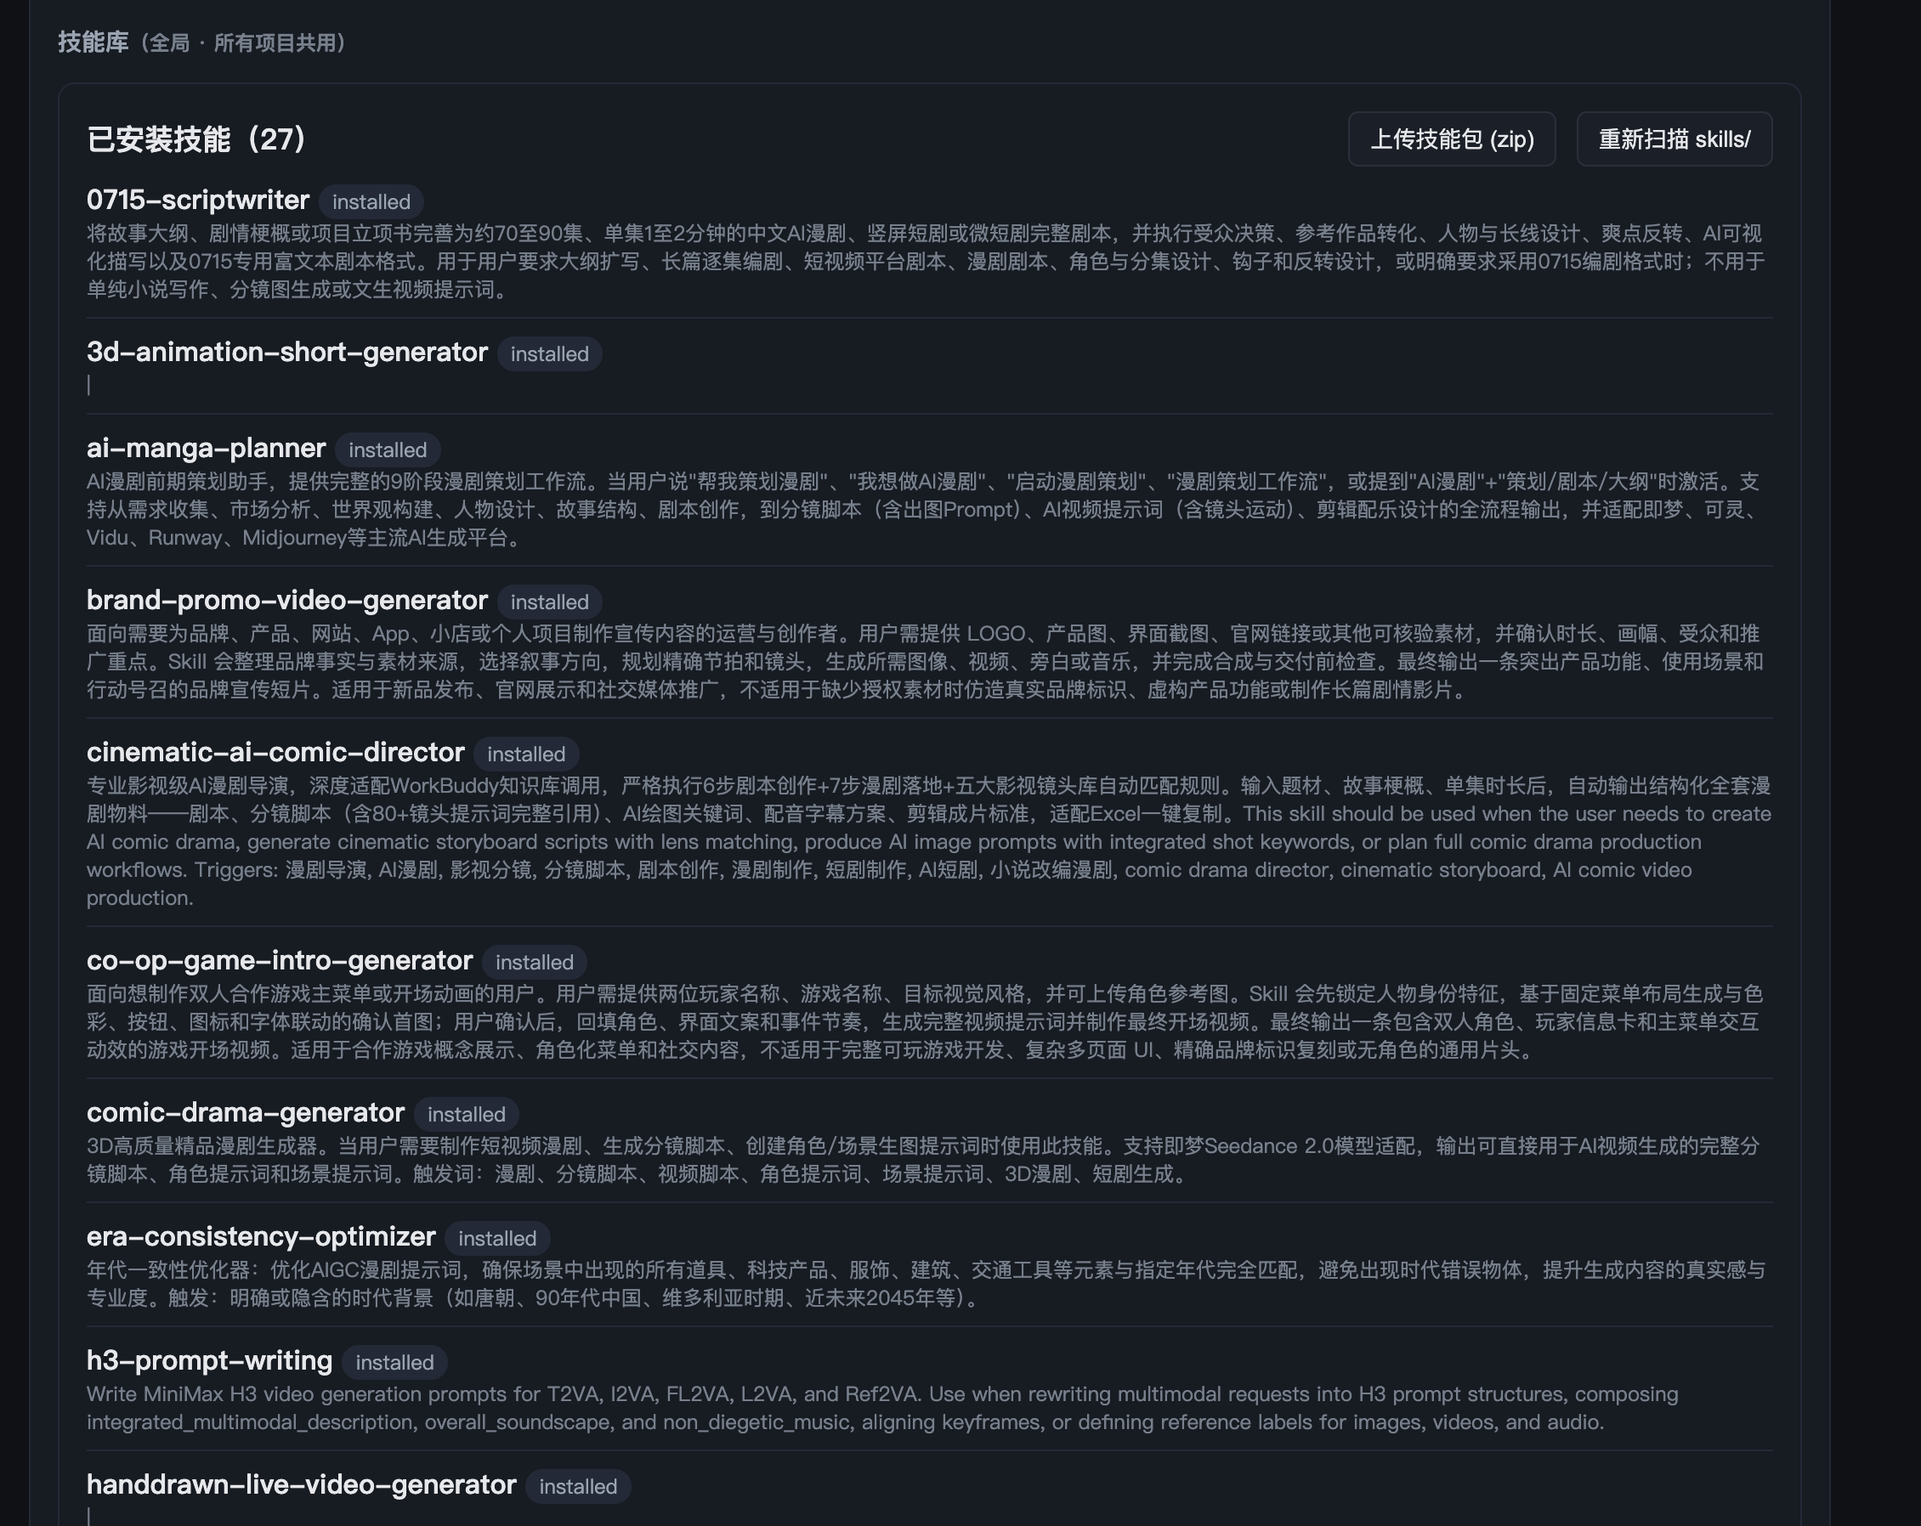
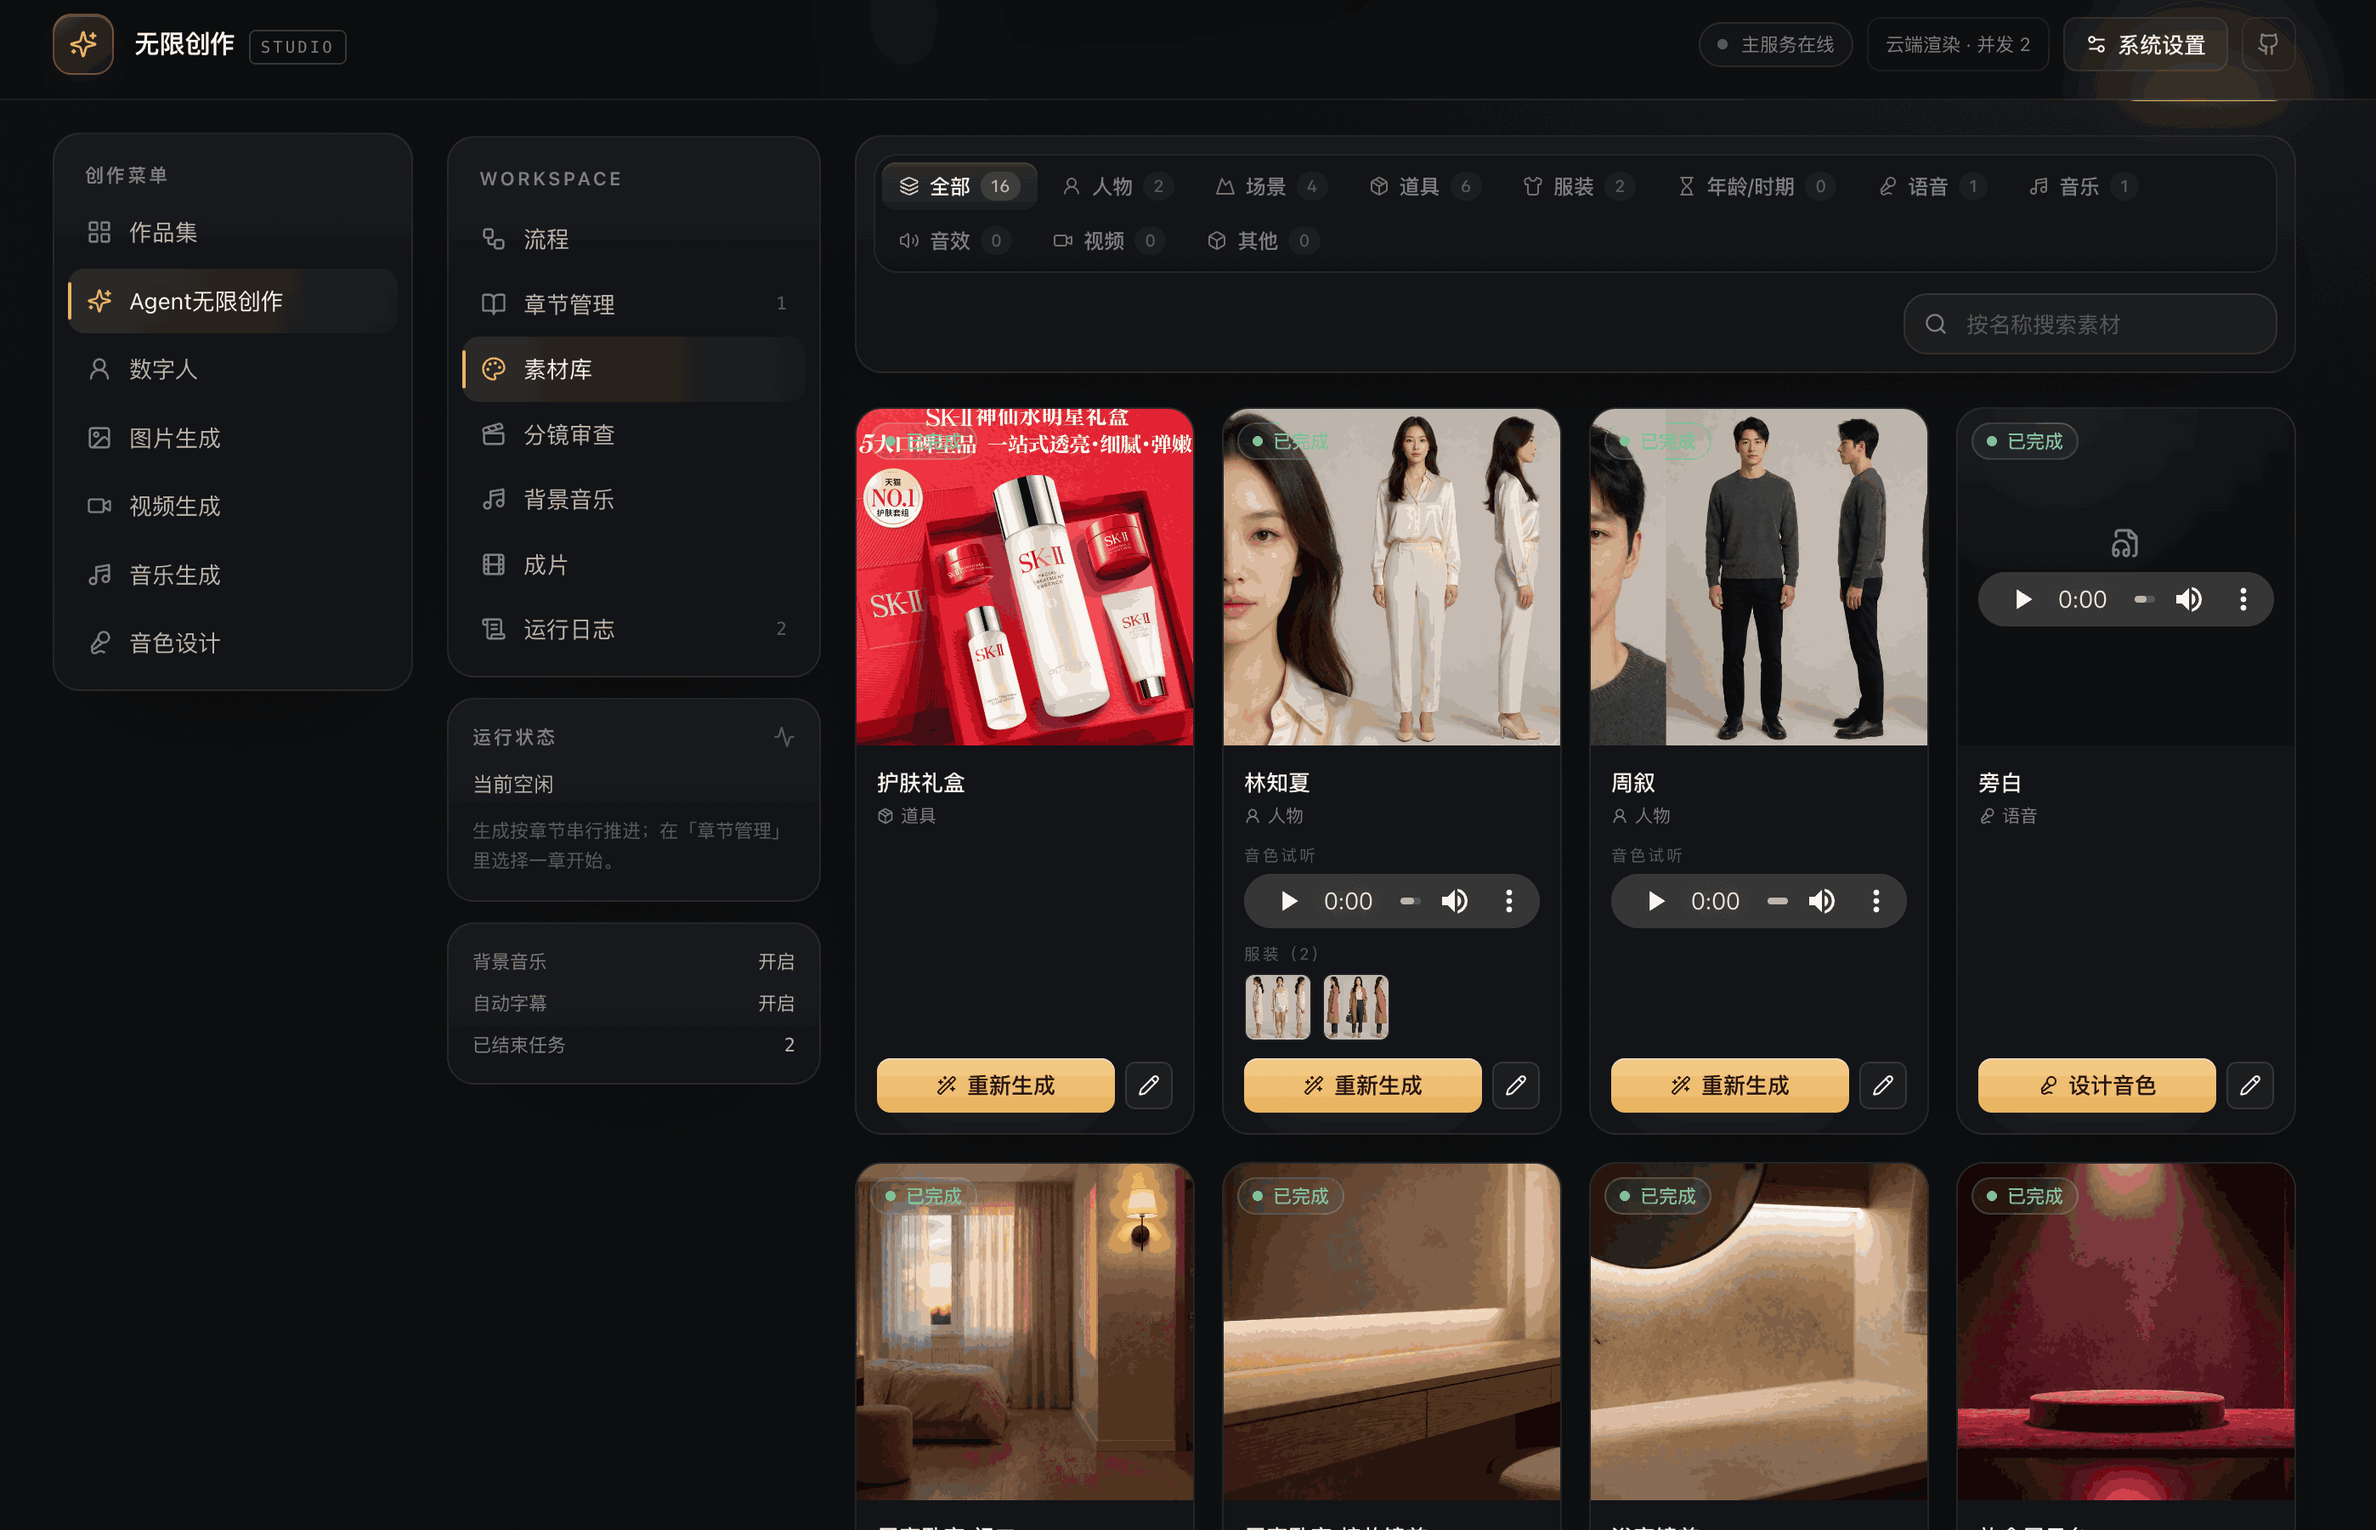
feat: update doc

diff --git a/README_EN.md b/README_EN.md
@@ -112,22 +112,18 @@ Hard disk: At least 150G of space is required
 
 # Screenshots
 
-1. Project Home
-   ![Project Home](images/j1.jpg)
+1. Project Homepage
+   ![Project Homepage](images/j1.png)
 2. Chapter Management
-   ![Chapter Management](images/j2.jpg)
+   ![Chapter Management](images/j2.png)
 3. Service Configuration
-   ![Service Configuration](images/j3.jpg)
-4. Skill Management
-   ![Skill Management](images/j4.png)
-5. Asset Management
-   ![Asset Management](images/j5.jpg)
-6. Run Logs
-   ![Run Logs](images/j6.png)
-7. Shot Review
-   ![Shot Review](images/j7.png)
-8. Export Final Film
-   ![Export Final Film](images/j8.png)
+   ![Service Configuration](images/j3.png)
+4. Material Library
+   ![Material Library](images/j4.png)
+5. Storyboard Review
+   ![Storyboard Review](images/j5.png)
+6. Export as a finished product
+   ![Export as a finished product](images/j6.png)
 
 ## Tech Stack
 
@@ -433,6 +429,7 @@ I've collected many useful little tools there — interested in learning more?
 - [OpenClaude: https://github.com/Gitlawb/openclaude](https://github.com/Gitlawb/openclaude) — the Agent kernel and workflow management
 - [Comfy-Org/ComfyUI](https://github.com/Comfy-Org/ComfyUI) — the ComfyUI workflows and model architecture
 - [deepseek](https://www.deepseek.com/) — thanks to DeepSeek for the deepseek-v4-flash-vision-exp model
+- Reference Open-Source Skills: [short-drama](https://github.com/0xsline/short-drama)、[manju-laoli-skill](https://github.com/lixiaoxiao9888-create/manju-laoli-skill)
 
 Thank you to these projects for enabling rapid iteration and improvement.
 

diff --git a/README.md b/README.md
@@ -105,21 +105,18 @@ CPU：不挑处理器
 # 截图演示
 
 1. 项目首页
-   ![项目首页](images/j1.jpg)
+   ![项目首页](images/j1.png)
 2. 章节管理
-   ![章节管理](images/j2.jpg)
+   ![章节管理](images/j2.png)
 3. 服务配置
-   ![服务配置](images/j3.jpg)
-4. 技能管理
-   ![技能管理](images/j4.png)
-5. 资产管理
-   ![资产管理](images/j5.jpg)
-6. 运行日志
-   ![运行日志](images/j6.png)
-7. 分镜审查
-   ![分镜审查](images/j7.png)
-8. 导出成片
-   ![导出成片](images/j8.png)
+   ![服务配置](images/j3.png)
+4. 素材库
+   ![素材库](images/j4.png)
+5. 分镜审查
+   ![分镜审查](images/j5.png)
+6. 导出成片
+   ![导出成片](images/j6.png)
+
 
 ## 技术栈
 
@@ -464,6 +461,7 @@ pnpm test   # node --test tests/unit.test.mjs
 - [OpenClaude：https://github.com/Gitlawb/openclaude](https://github.com/Gitlawb/openclaude) 提供了 Agent 内核和工作流管理功能
 - [Comfy-Org/ComfyUI](https://github.com/Comfy-Org/ComfyUI) 提供了 ComfyUI 工作流和模型架构
 - [deepseek](https://www.deepseek.com/) 感谢Deepseek提供了 deepseek-v4-flash-vision-exp 模型
+- 参考开源Skill技能：[short-drama](https://github.com/0xsline/short-drama)、[manju-laoli-skill](https://github.com/lixiaoxiao9888-create/manju-laoli-skill)
 
 感谢这些项目为我提供了帮助，使项目能够快速迭代和改进。
 
